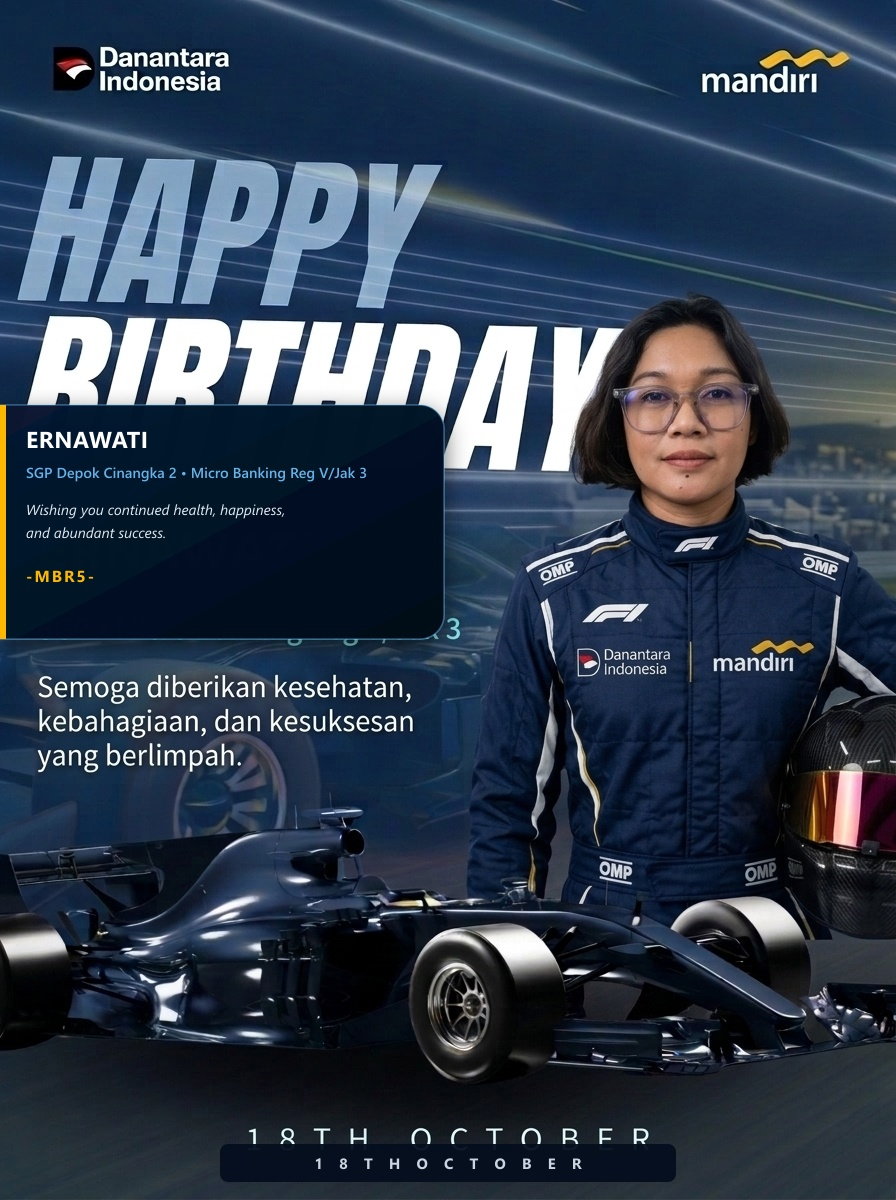
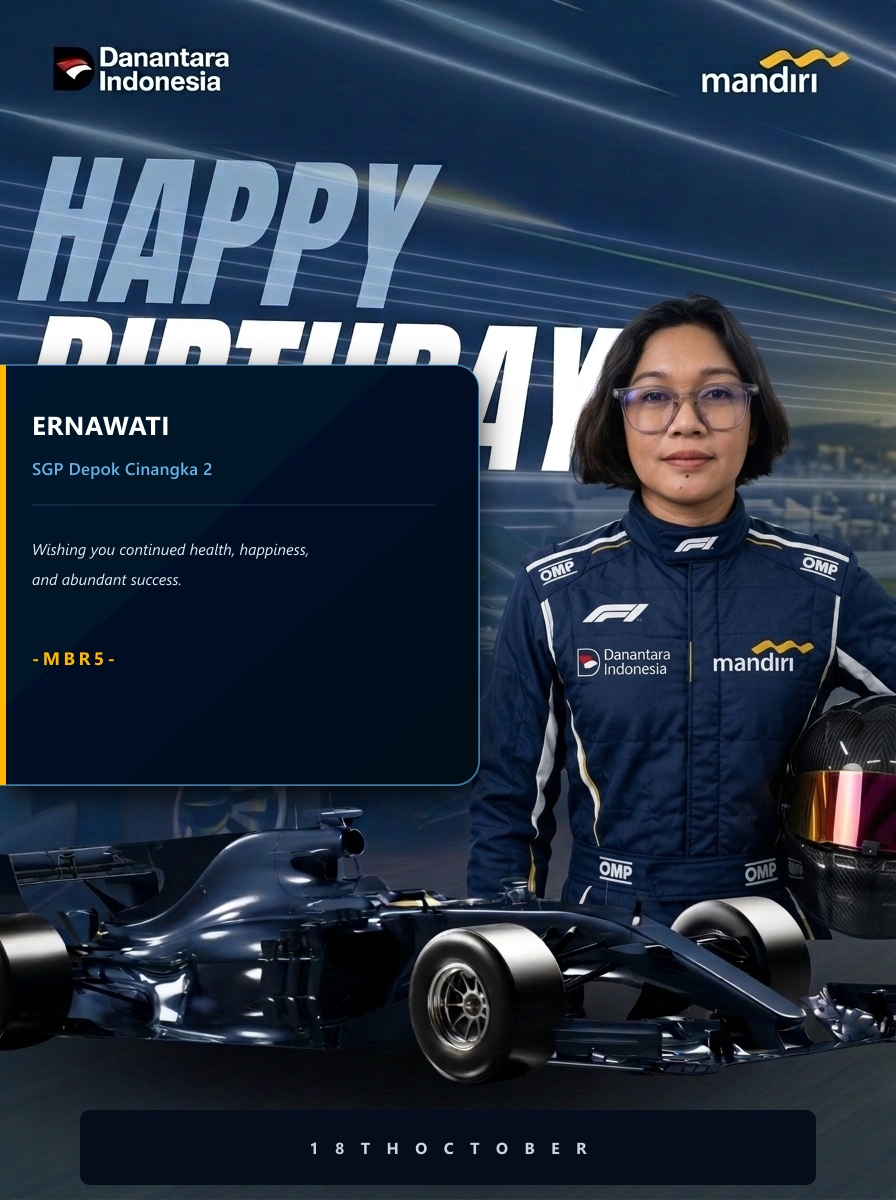
fix(cards): perbaiki tumpang tindih teks kartu F1, sesuaikan posisi tanpa tambahan Micro banking, dan selaraskan teks bahasa Inggris serta -MBR5-

Changed region(s): [[0.0, 0.2775, 0.5625, 0.6783], [0.0625, 0.925, 0.9375, 0.9867]]

diff --git a/public/index.html b/public/index.html
@@ -480,6 +480,6 @@
   <!-- Toast Notification Container -->
   <div class="toast-container" id="toastContainer"></div>
 
-  <script src="app.js?v=20261018_mbr5_english_cards"></script>
+  <script src="app.js?v=20261018_mbr5_clean_no_overlap"></script>
 </body>
 </html>
